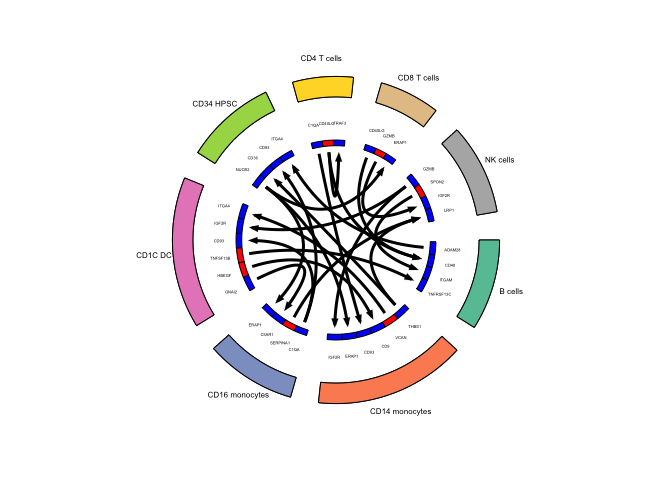
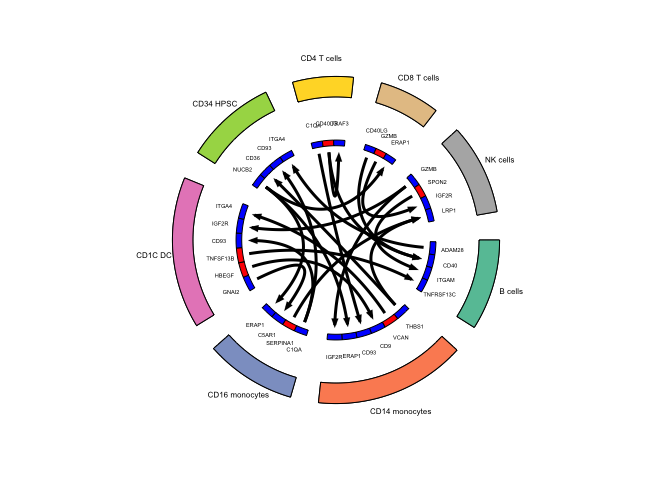
Rebump readme for font size

diff --git a/README.md b/README.md
@@ -91,7 +91,7 @@ top_stats <- hca_bm_interactions %>%
 ## Generate a circos plot
 colors_use <- RColorBrewer::brewer.pal(n=length(unique(hca_bm$cell_types)),"Set2")
 
-circos_plot(ligand_receptor_frame=top_stats,cell_group_colors=colors_use,ligand_color="blue",receptor_color="red",cex_outer=0.5,cex_inner=0.25)
+circos_plot(ligand_receptor_frame=top_stats,cell_group_colors=colors_use,ligand_color="blue",receptor_color="red",cex_outer=0.5,cex_inner=0.35)
 ```
 
 <img src="man/figures/README-example-2.png" width="100%" />
